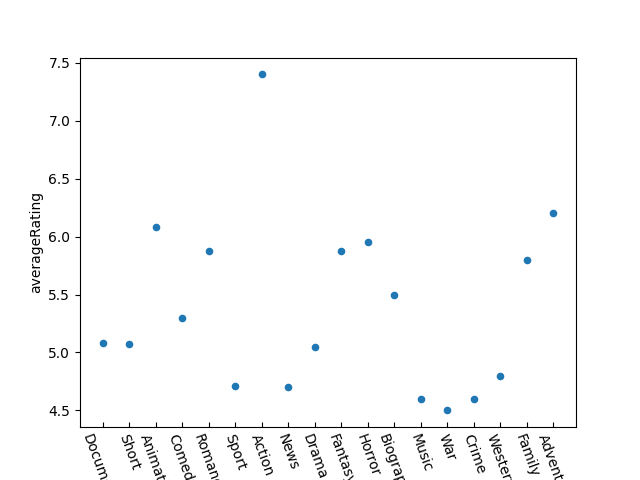
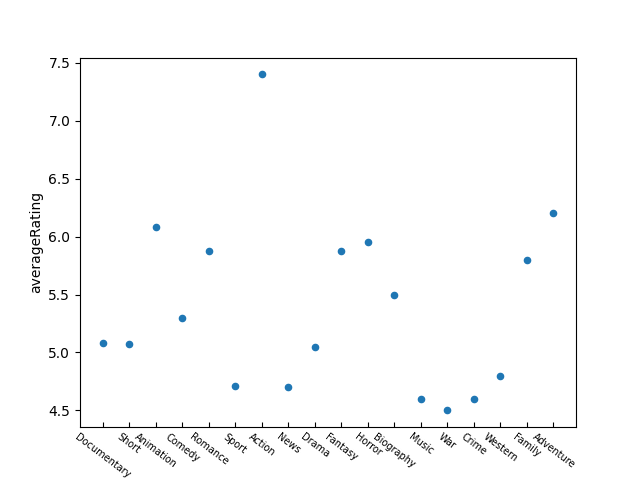
chart scirpt update
"by genre" chart looks better on x-axis-label thanks to some tinkering with fontsize and rotation of text

Changed region(s): [[0.125, 0.9062, 0.9062, 1.0]]

diff --git a/chart.py b/chart.py
@@ -5,5 +5,6 @@ a= pd.read_csv(os.path.join(os.path.dirname(__file__), "movie_rating_by_year.tsv
 a.plot.scatter(x='year', y='averageRating')
 plt.savefig(os.path.join(os.path.dirname(__file__), 'movie_rating_by_year.png'))
 a= pd.read_csv(os.path.join(os.path.dirname(__file__), "movie_rating_by_genres.tsv"),sep='\t',low_memory=False,memory_map=True)
-a.plot.scatter(x='genre', y='averageRating').tick_params(axis='x', rotation=-70,direction= 'in')
+a.plot.scatter(x='genre', y='averageRating', s=20).tick_params(axis='x', rotation=-37,direction= 'in',labelsize=7)
+
 plt.savefig(os.path.join(os.path.dirname(__file__), 'movie_rating_by_genre.png'))
